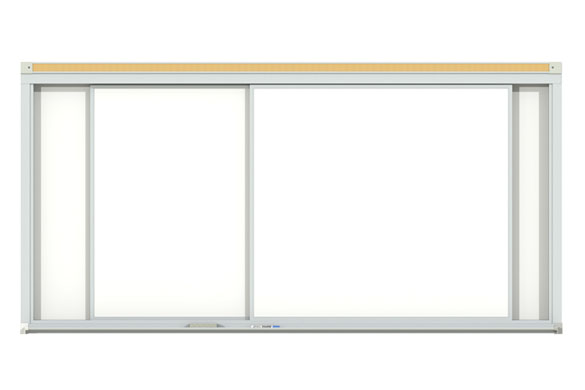
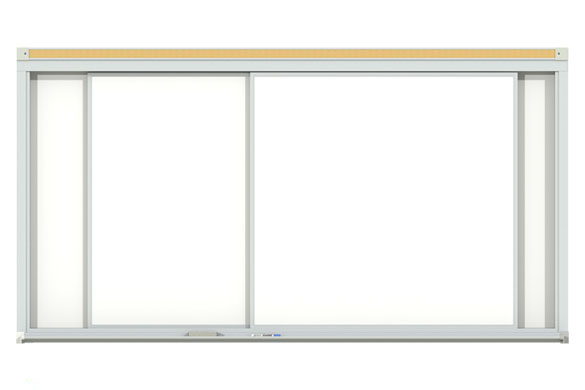
Chalkboard Section: Done. Other Images: Optimized

Changed region(s): [[0.0308, 0.1231, 0.9846, 0.8923]]

diff --git a/src/pages/ProductsPage/VisualDisplays/Chalkboard.js b/src/pages/ProductsPage/VisualDisplays/Chalkboard.js
@@ -1,26 +1,126 @@
 import React from 'react';
 import styles from './Chalkboard.module.css';
 
-import chalkboard from '../../../assets/images/VisualBoards/chalkboard.jpg';
+import HeroProduct from '../../../components/SpecificProduct/HeroProduct';
+import HeroBody from '../../../components/SpecificProduct/HeroBody';
+import ProductSection from '../../../components/SpecificProduct/ProductSection';
+import ProductInfo from '../../../components/SpecificProduct/ProductInfo';
+import AvailableSizes from '../../../components/SpecificProduct/AvailableSizes';
+import OptionsRow from '../../../components/SpecificProduct/OptionsRow';
+import PorcelainSection from '../../../components/SpecificProduct/PorcelainSection';
+import CombinationBoards from '../../../components/SpecificProduct/CombinationBoards';
+import Joints from '../../../components/SpecificProduct/Joints';
+import Accessories from '../../../components/SpecificProduct/Accessories';
+
+import chalkboard from '../../../assets/images/VisualBoards/chalkboard_black.jpg';
+import chalkBlack from '../../../assets/images/VisualBoards/Finishes/color_chalk_black.jpg';
+import chalkBlue from '../../../assets/images/VisualBoards/Finishes/color_chalk_blue.jpg';
+import chalkGreen from '../../../assets/images/VisualBoards/Finishes/color_chalk_green.jpg';
+import chalkSlate from '../../../assets/images/VisualBoards/Finishes/color_chalk_slate.jpg';
 
 const Chalkboard = () => {
+  const mainImages = [
+    {
+      id: 1,
+      image: chalkboard,
+      alt: 'chalkboard',
+    },
+  ];
+
+  const colors = [
+    {
+      id: 1,
+      imgSrc: chalkGreen,
+      title: 'Green Chalk',
+    },
+    {
+      id: 2,
+      imgSrc: chalkBlack,
+      title: 'Black Chalk',
+    },
+    {
+      id: 3,
+      imgSrc: chalkSlate,
+      title: 'Slate Chalk',
+    },
+    {
+      id: 4,
+      imgSrc: chalkBlue,
+      title: 'Blue Chalk',
+    },
+  ];
+
+  const finishes = [
+    {
+      id: 1,
+      text: 'Ultra MAtte (Americas, EMEA, APAC)',
+    },
+    {
+      id: 2,
+      text: '*Available in EMEA + APAC Only',
+    },
+  ];
+
   return (
-    <section className={styles.chalkboard_section}>
-      <div className={styles.board_box}>
-        <div className={styles.board_image_box}>
-          <img src={chalkboard} alt="chalkboard" />
-        </div>
-        <div className={styles.board_description_box}>
-          <div className={styles.description_title}>Chalkboard</div>
-          <div className={styles.description_paragraph}>
-            Chalkboards substrate construction consist of e3 porcelain on 1/2"
-            particleboard with optional .005 or .015 moisture barrier backer,
-            with standard satin clear anodized aluminum that include 2ea: C-4
+    <ProductSection>
+      <HeroProduct mainImages={mainImages} indicators={false} controls={false}>
+        <HeroBody title="Markerboards">
+          <li>Porcelain enamel steel writing surface with aluminum trim.</li>
+          <li>
+            1/2" particleboard with optional .005 or .015 moisture barrier
+            backer.
+          </li>
+          <li>
+            Standard satin clear anodized aluminum that include 2ea: C-4 or C-18
             side trim, standard CR-4 blade tray with radius edges.
+          </li>
+          <li>
+            Optional 1" or 2" map-rail with various insert options: natural
+            cork, Forbo or vinyl covered natural cork insert at additional cost.
+          </li>
+          <li>
+            All aluminum is 6063-T5 alloy that comes in satin standard clear
+            anodized color.
+          </li>
+        </HeroBody>
+      </HeroProduct>
+
+      {/* Product Information Section*/}
+      <ProductInfo>
+        {/* Porcelain Section */}
+        <PorcelainSection colors={colors} finishes={finishes} />
+        <AvailableSizes>
+          <li>3' x 4'</li>
+          <li>4' x 4'</li>
+          <li>4' x 5'</li>
+          <li>4' x 6'</li>
+          <li>4' x 7'</li>
+          <li>4' x 8'</li>
+          <li>4' x 9'</li>
+          <li>4' x 10'</li>
+          <li>4' x 11'</li>
+          <li>4' x 12'</li>
+          <li>4' x 13'</li>
+          <li>4' x 14'</li>
+          <li>4' x 15'</li>
+          <li>4' x 16'</li>
+          <li>Custom Sizes Available</li>
+        </AvailableSizes>
+
+        {/* Options Row */}
+        <div className={styles.customize_boards_box}>
+          <div className={styles.customize_box_2}>
+            <Accessories />
+            <Joints />
+            <OptionsRow />
+
+            {/* Joints */}
+
+            <CombinationBoards />
           </div>
         </div>
-      </div>
-    </section>
+      </ProductInfo>
+    </ProductSection>
   );
 };
 

diff --git a/src/pages/ProductsPage/VisualDisplays/VisualDisplays.js b/src/pages/ProductsPage/VisualDisplays/VisualDisplays.js
@@ -3,7 +3,7 @@ import styles from './VisualDisplays.module.css';
 import SliderContent from '../../../components/ProductsPage/SliderContent';
 
 // import Visual Display Images
-import chalkboard from '../../../assets/images/VisualBoards/chalkboard.jpg';
+import chalkboard from '../../../assets/images/VisualBoards/chalkboard_black.jpg';
 import bulletinBoard from '../../../assets/images/VisualBoards/enclosedBulletinBoard.jpg';
 import fTackBoard from '../../../assets/images/VisualBoards/forboBlueTackBoard.jpg';
 import hingeDoor from '../../../assets/images/VisualBoards/hingedDoorDisplay.jpg';
@@ -16,63 +16,63 @@ import vertical from '../../../assets/images/VisualBoards/verticalSliders.jpg';
 const ProductsPage = () => {
   const visualDisplayBoards = [
     {
-      id: 6,
+      id: 1,
       product: 'Markerboards',
       imageSrc: mb,
       category: 'visual',
       item: 'markerboard',
     },
     {
-      id: 9,
+      id: 2,
       product: 'Vertical Sliders',
       imageSrc: vertical,
       category: 'visual',
       item: 'vertical_sliders',
     },
     {
-      id: 5,
+      id: 3,
       product: 'Horizontal Sliders',
       imageSrc: markerBoard,
       category: 'visual',
       item: 'horizontal_sliders',
     },
     {
-      id: 1,
+      id: 4,
       product: 'Chalkboard',
       imageSrc: chalkboard,
       category: 'visual',
       item: 'chalkboard',
     },
     {
-      id: 2,
+      id: 5,
       product: 'Bulletin Board Natural Cork',
       imageSrc: bulletinBoard,
       category: 'visual',
       item: 'bulletin_board_natural_cork',
     },
     {
-      id: 3,
+      id: 6,
       product: 'Forbo Blue TackBoard',
       imageSrc: fTackBoard,
       category: 'visual',
       item: 'tackboard_forbo_blue',
     },
     {
-      id: 4,
+      id: 7,
       product: 'Bulletin Board Forbo',
       imageSrc: hingeDoor,
       category: 'visual',
       item: 'bulletin_board_forbo',
     },
     {
-      id: 7,
+      id: 8,
       product: 'Mobile Markerboard',
       imageSrc: mobileMb,
       category: 'visual',
       item: 'markerboard_mobile',
     },
     {
-      id: 8,
+      id: 9,
       product: 'Tackboard Natural Board',
       imageSrc: tackBoard,
       category: 'visual',

diff --git a/src/pages/ProductsPage/VisualDisplays/Markerboard.js b/src/pages/ProductsPage/VisualDisplays/Markerboard.js
@@ -65,12 +65,7 @@ const Markerboard = () => {
 
   return (
     <ProductSection>
-      <HeroProduct
-        mainImages={mainImages}
-        imgSrc={markerboard}
-        indicators={false}
-        controls={false}
-      >
+      <HeroProduct mainImages={mainImages} indicators={false} controls={false}>
         <HeroBody title="Markerboards">
           <li>Porcelain enamel steel writing surface with aluminum trim.</li>
           <li>
@@ -113,18 +108,10 @@ const Markerboard = () => {
           <li>Custom Sizes Available</li>
         </AvailableSizes>
 
-        {/* Options Row */}
-        <div className={styles.customize_boards_box}>
-          <div className={styles.customize_box_2}>
-            <Accessories />
-            <Joints />
-            <OptionsRow />
-
-            {/* Joints */}
-
-            <CombinationBoards />
-          </div>
-        </div>
+        <Accessories />
+        <Joints />
+        <OptionsRow />
+        <CombinationBoards />
       </ProductInfo>
     </ProductSection>
   );

diff --git a/src/pages/ProductsPage/VisualDisplays/Chalkboard.module.css b/src/pages/ProductsPage/VisualDisplays/Chalkboard.module.css
@@ -1,32 +1,15 @@
-.chalkboard_section {
-  min-height: 100vh;
-  padding-top: 15rem;
-}
-
-.board_box {
+.customize_boards_box {
   display: grid;
-  margin: 2rem 8rem;
-  padding: 2rem;
-  grid-template-columns: 3fr 2fr;
+  /* grid-template-rows: 1fr 1fr; */
+  gap: 2rem;
 }
 
-.board_image_box img {
-  width: 100%;
-  height: 100%;
+.customize_box_2 {
+  display: grid;
+  grid-template-columns: 1fr;
+  grid-template-rows: 1.25fr 1fr 1fr 2fr;
 }
 
-.board_description_box {
-  display: flex;
-  flex-direction: column;
-  justify-content: center;
-  align-items: center;
-  padding: 4rem;
-}
-
-.description_title {
-  margin-bottom: 2rem;
-  font-size: 5rem;
-}
-.description_paragraph {
-  font-size: 2.6rem;
+.customize_box_2 > div {
+  margin-bottom: 10rem;
 }

diff --git a/src/pages/ProductsPage/VisualDisplays/Markerboard.module.css b/src/pages/ProductsPage/VisualDisplays/Markerboard.module.css
@@ -1,11 +1,5 @@
 /* Product Information */
 
-.customize_boards_box {
-  display: grid;
-  /* grid-template-rows: 1fr 1fr; */
-  gap: 2rem;
-}
-
 .customize_accessories_title {
   text-align: center;
   font-weight: 600;
@@ -19,16 +13,6 @@
   font-size: 1.6rem;
   font-weight: 500;
   color: rgb(76, 76, 76);
-}
-
-.customize_box_2 {
-  display: grid;
-  grid-template-columns: 1fr;
-  grid-template-rows: 1.25fr 1fr 1fr 2fr;
-}
-
-.customize_box_2 > div {
-  margin-bottom: 10rem;
 }
 
 .customize_accessories_options,

diff --git a/src/components/SpecificProduct/HeroProduct.css b/src/components/SpecificProduct/HeroProduct.css
@@ -8,24 +8,30 @@
   /* box-shadow: 0 0 0.6rem rgba(0, 0, 0, 0.4); */
 }
 
-.markerboard_image_box {
+/* .markerboard_image_box {
   height: 100%;
   width: 100%;
 }
 
 .markerboard_image_box img {
   min-width: 100%;
+  height: 100%;
   border-radius: 0.6rem;
-}
+} */
 
 .markerboard_carousel {
-  height: 100%;
   min-width: 100%;
   transform: scale(1);
   opacity: 1;
 }
 
+.carousel-inner,
+.carousel-item {
+  height: 100%;
+}
+
 .markerboard_carousel.slide img {
+  height: 100%;
   pointer-events: auto;
 }
 

diff --git a/src/components/SpecificProduct/PorcelainSection.module.css b/src/components/SpecificProduct/PorcelainSection.module.css
@@ -22,9 +22,8 @@
 }
 
 .porcelain_finishes_colors {
-  display: grid;
-  grid-template-columns: 1fr;
-  grid-template-rows: 1fr 1fr;
+  display: flex;
+  flex-direction: column;
 }
 
 .porcelain_options_title {
